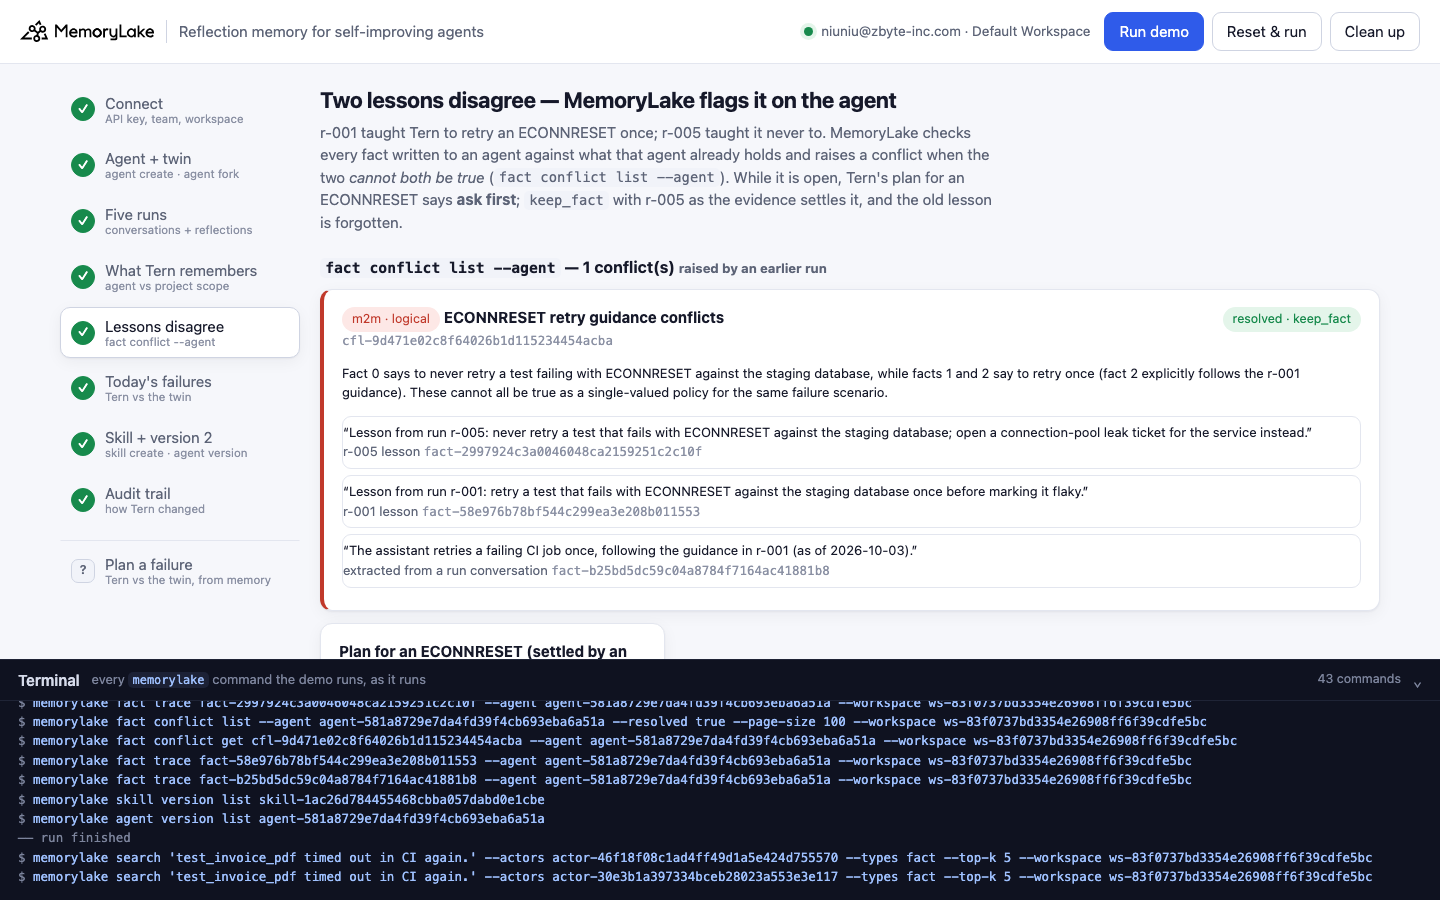
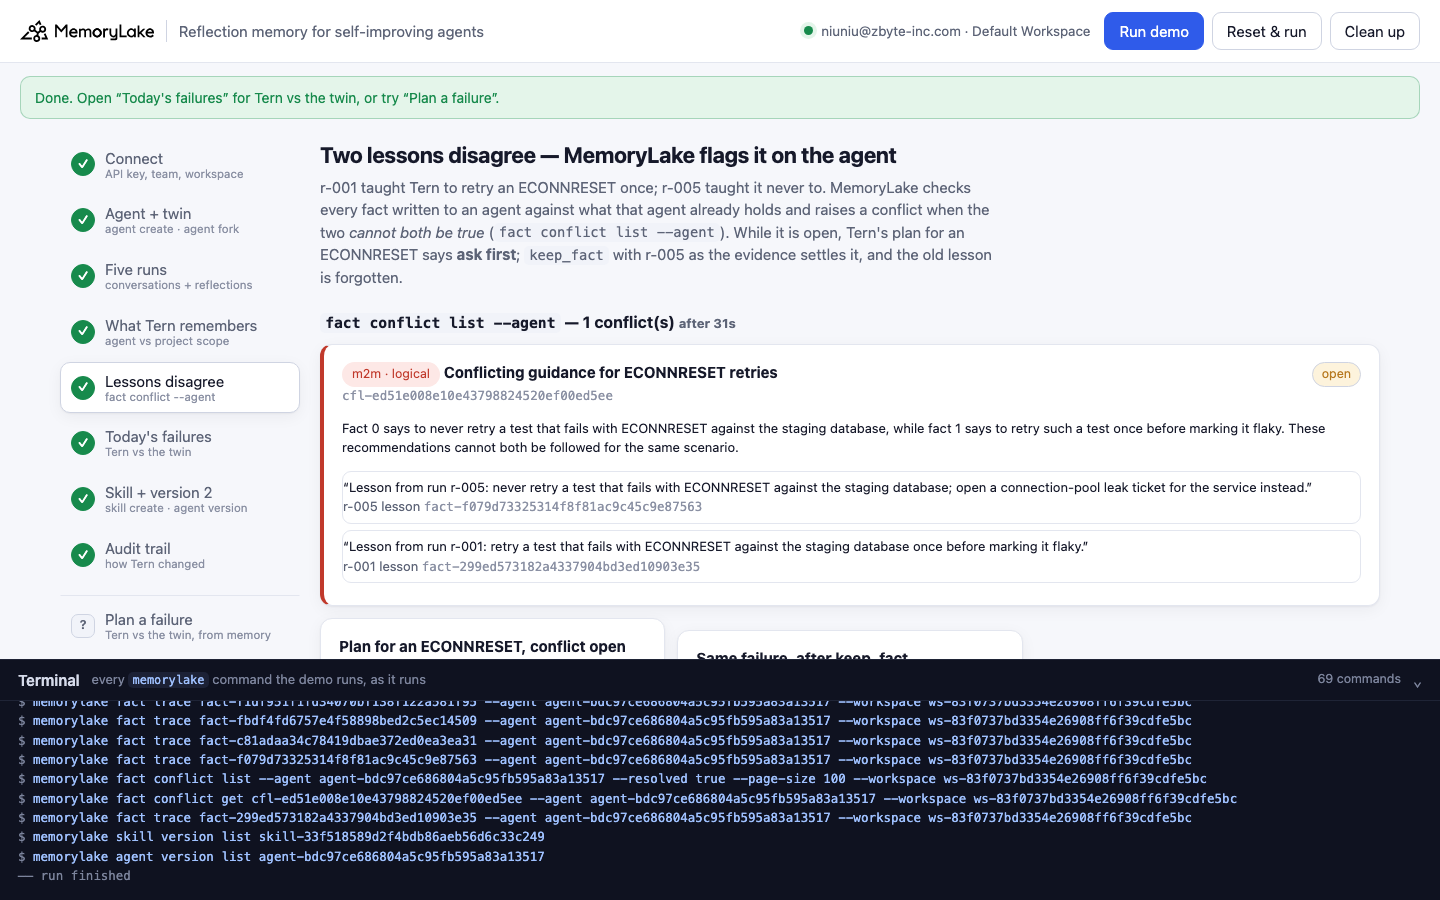
reflexion-memory: demo videos (CLI 5:05, Web 6:52), screenshots from the recorded run, 7/7 tally

diff --git a/README.md b/README.md
@@ -23,7 +23,7 @@ and runs end to end with nothing more than a MemoryLake API key.
 | [macro-memory](macro-memory/) | Customer success & support | Support macros that stay true to the policy: 7 saved replies exported from Zendesk and Intercom, one fact each with its name, tool and the policy sections it depends on in metadata, next to the support policy as a document; MemoryLake's contradiction detector flags a stale macro against the policy, quoting it (`m2d`), a macro that contradicts itself (`self`) and two tools' macros that disagree (`m2m`); each settled with a different strategy — `edit_fact`, `trust_document` + version 2, `trust_fact` (the server rewrites the macro, so the approved wording is restored and `fact trace` shows all three versions) and `dismiss` on the conflict the fix made `stale`; then a new policy flags nothing until the dependent macros are re-filed, and the shipping macro is flagged against v4. CLI runner plus a local web UI | ~6 min | [CLI 5:57](https://github.com/memorylake-ai/memorylake-usecases/releases/download/macro-memory-v1/macro-memory-cli-demo.mp4) · [Web 7:53](https://github.com/memorylake-ai/memorylake-usecases/releases/download/macro-memory-v1/macro-memory-web-demo.mp4) |
 | [pitch-deck-memory](pitch-deck-memory/) | Marketing & agencies | A new pitch deck built from the slides that already worked: three past decks (.pptx) and their debriefs (.docx) in one project; for every slot (case study, credentials, process, pricing, team) `search` returns the decks **one passage per slide** (`range` = `P<slide>[…]`), and the slide is cited as deck + **slide number** + its own words, picked by category or by won pitches (Library attributes); debrief sentences, cited by page, reorder the outline; approved figures pinned with `fact add` get the old slide flagged by the contradiction detector (`m2d`, matched back to slide 4 of the .pptx); every citation re-checked against the downloaded .pptx/.docx (sha256 + that slide's XML, 8 of 8 in 7 of 7 fresh runs, neighbouring-slide control rejected) and exported with the outline. CLI runner plus a local web UI | ~3 min | [CLI 3:55](https://github.com/memorylake-ai/memorylake-usecases/releases/download/pitch-deck-memory-v1/pitch-deck-memory-cli-demo.mp4) · [Web 4:52](https://github.com/memorylake-ai/memorylake-usecases/releases/download/pitch-deck-memory-v1/pitch-deck-memory-web-demo.mp4) |
 | [buyer-profile-memory](buyer-profile-memory/) | Sales & real estate | One buyer, three agents: the buyer's stated profile (dealbreakers, budget, financing) pinned on **her own actor**, the showings as events on the team project; a covering agent's notes contradict the kickoff, and MemoryLake's contradiction detector flags both **on the buyer's actor** (`fact conflict list --actor`, `m2m`, 8 of 8 fresh runs); the new agent's tour screen marks the listings that depend on the dispute as *ask first*, the showings show what she said vs what she responded to, `keep_fact` settles each conflict with the showings as evidence, and the screen flips; `fact conflict get` keeps the forgotten notes word for word in the handoff record. CLI runner plus a local web UI | ~3½ min | [CLI 4:08](https://github.com/memorylake-ai/memorylake-usecases/releases/download/buyer-profile-memory-v1/buyer-profile-memory-cli-demo.mp4) · [Web 5:14](https://github.com/memorylake-ai/memorylake-usecases/releases/download/buyer-profile-memory-v1/buyer-profile-memory-web-demo.mp4) |
-| [reflexion-memory](reflexion-memory/) | Engineering & developers | A self-improving (Reflexion-style) agent whose reflections live in **its own agent memory**: five failed CI runs as conversations (incidents land on the project), a typed reflection after each (`fact add --agent` + metadata: cause, adjustment, expected outcome); MemoryLake flags the two lessons that contradict each other **on the agent** (`fact conflict list --agent`, 5 of 5 fresh runs) and `keep_fact` settles it; today's planning step retrieves the right lesson (`search --actors <agent's actor>`) while a twin made with `agent fork` (same config, no memory) repeats the mistake; two lessons with the same cause become a published **skill** (security review `safe`) on **agent version 2**, memory unchanged; `fact trace` + `fact conflict get` + version lists as the audit trail. CLI runner plus a local web UI | ~4 min | recording |
+| [reflexion-memory](reflexion-memory/) | Engineering & developers | A self-improving (Reflexion-style) agent whose reflections live in **its own agent memory**: five failed CI runs as conversations (incidents land on the project), a typed reflection after each (`fact add --agent` + metadata: cause, adjustment, expected outcome); MemoryLake flags the two lessons that contradict each other **on the agent** (`fact conflict list --agent`, 7 of 7 fresh runs) and `keep_fact` settles it; today's planning step retrieves the right lesson (`search --actors <agent's actor>`) while a twin made with `agent fork` (same config, no memory) repeats the mistake; two lessons with the same cause become a published **skill** (security review `safe`) on **agent version 2**, memory unchanged; `fact trace` + `fact conflict get` + version lists as the audit trail. CLI runner plus a local web UI | ~4 min | [CLI 5:05](https://github.com/memorylake-ai/memorylake-usecases/releases/download/reflexion-memory-v1/reflexion-memory-cli-demo.mp4) · [Web 6:52](https://github.com/memorylake-ai/memorylake-usecases/releases/download/reflexion-memory-v1/reflexion-memory-web-demo.mp4) |
 
 The videos are real, unedited recordings; every asset lives on the [releases page](https://github.com/memorylake-ai/memorylake-usecases/releases).
 

diff --git a/reflexion-memory/README.md b/reflexion-memory/README.md
@@ -52,16 +52,17 @@ version 2   ── agent version create <Tern> --from-version latest --config {"
 audit       ── fact trace · fact conflict get · skill version list · agent version list ──▶ out/tern-improvement.md
 ```
 
-**Watch it run** (real recordings, unedited): *recording in progress*
+**Watch it run** (real recordings, unedited):
+[CLI demo, 5:05](https://github.com/memorylake-ai/memorylake-usecases/releases/download/reflexion-memory-v1/reflexion-memory-cli-demo.mp4) · [Web companion demo, 6:52](https://github.com/memorylake-ai/memorylake-usecases/releases/download/reflexion-memory-v1/reflexion-memory-web-demo.mp4)
 
 Runs in about 4 minutes on a free personal account. Most of that is MemoryLake processing the five conversations, pacing the
 writes (15 s apart) and waiting for the detector. The only credential you need is a MemoryLake API key. Nothing here calls an
 LLM or `agent send`: Tern's planning step is the retrieval and a fixed rule, so the result is the same on every run.
 
 **Measured** (every fresh run while building this demo, free account): the detector flagged r-005 against r-001 on the agent in
-**5 of 5** fresh runs, 28–31 s after the last lesson, with **no** other conflict raised. In 1 of the 5 it also named a fact that
+**7 of 7** fresh runs (both recordings included), 28–31 s after the last lesson, with **no** other conflict raised. In 1 of the 7 it also named a fact that
 extraction had put on Tern ("The assistant retries a failing CI job once, following … r-001"), and `keep_fact` forgot that one
-too. Both of today's plans retrieved the expected lesson at rank 1 in **5 of 5** runs, and the twin's search returned **0**
+too. Both of today's plans retrieved the expected lesson at rank 1 in **7 of 7** runs, and the twin's search returned **0**
 facts every time. The skill passed its security review within seconds in every run once the front matter was valid YAML (see
 *If something goes wrong*).
 
@@ -117,6 +118,8 @@ python3 web/server.py        # http://127.0.0.1:8765 — standard library only
 ```
 
 ![Web companion — today's failures: Tern plans from the matching lesson, the twin falls back to its default playbook](https://github.com/memorylake-ai/memorylake-usecases/raw/main/reflexion-memory/web/screenshot-today.png)
+
+[Watch the web companion demo (mp4, 6:52)](https://github.com/memorylake-ai/memorylake-usecases/releases/download/reflexion-memory-v1/reflexion-memory-web-demo.mp4).
 
 Paste the key, press **Run demo**, and watch the runs and their reflections fill in, then Tern's memory next to the project's,
 the detector's conflict with the plan before and after `keep_fact`, Tern and the twin side by side on today's failures, the
